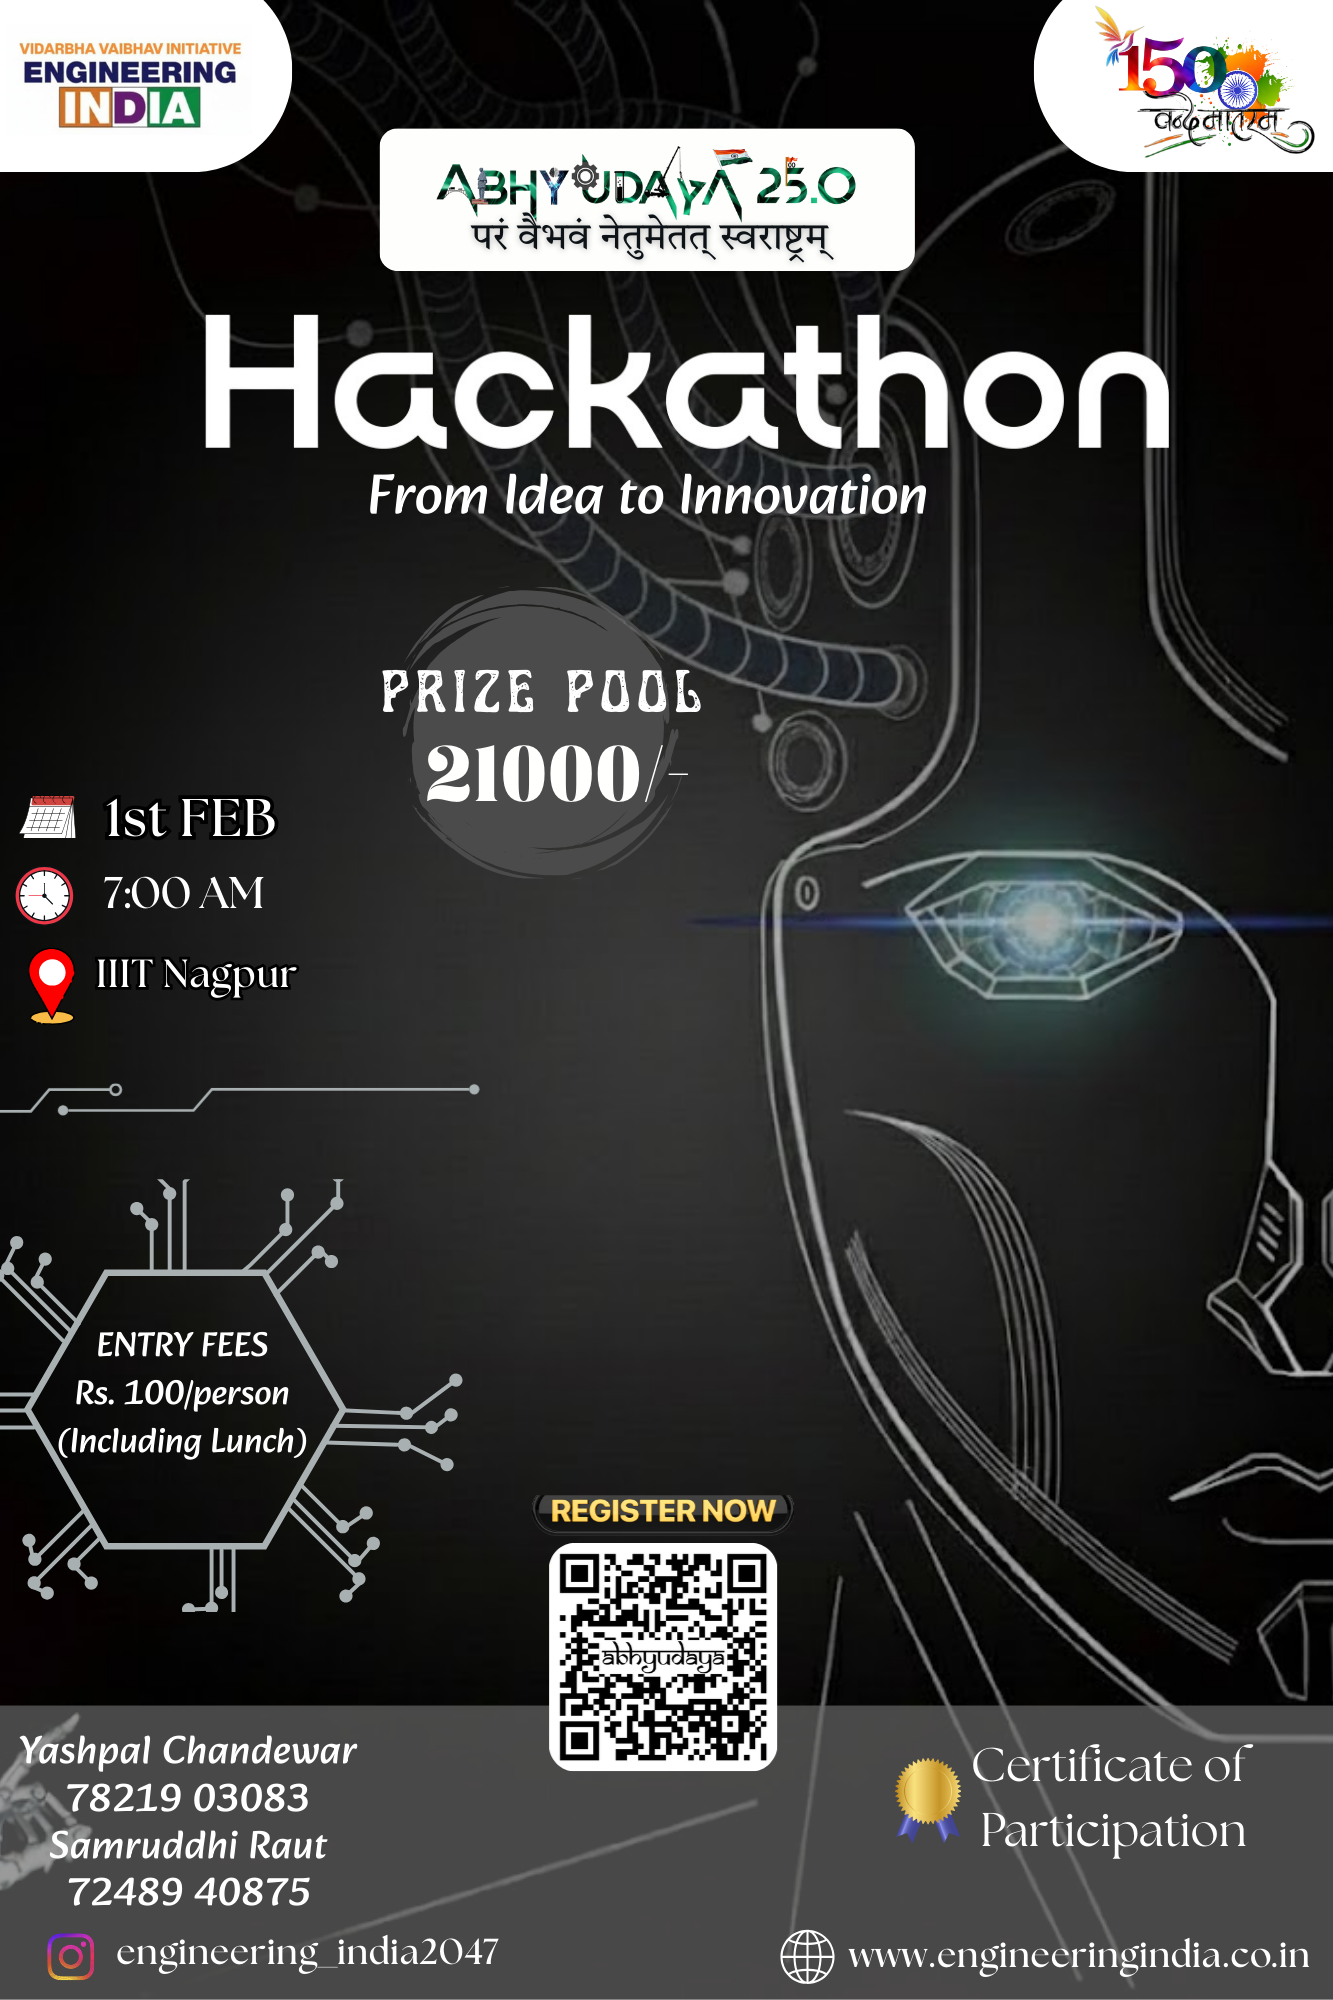
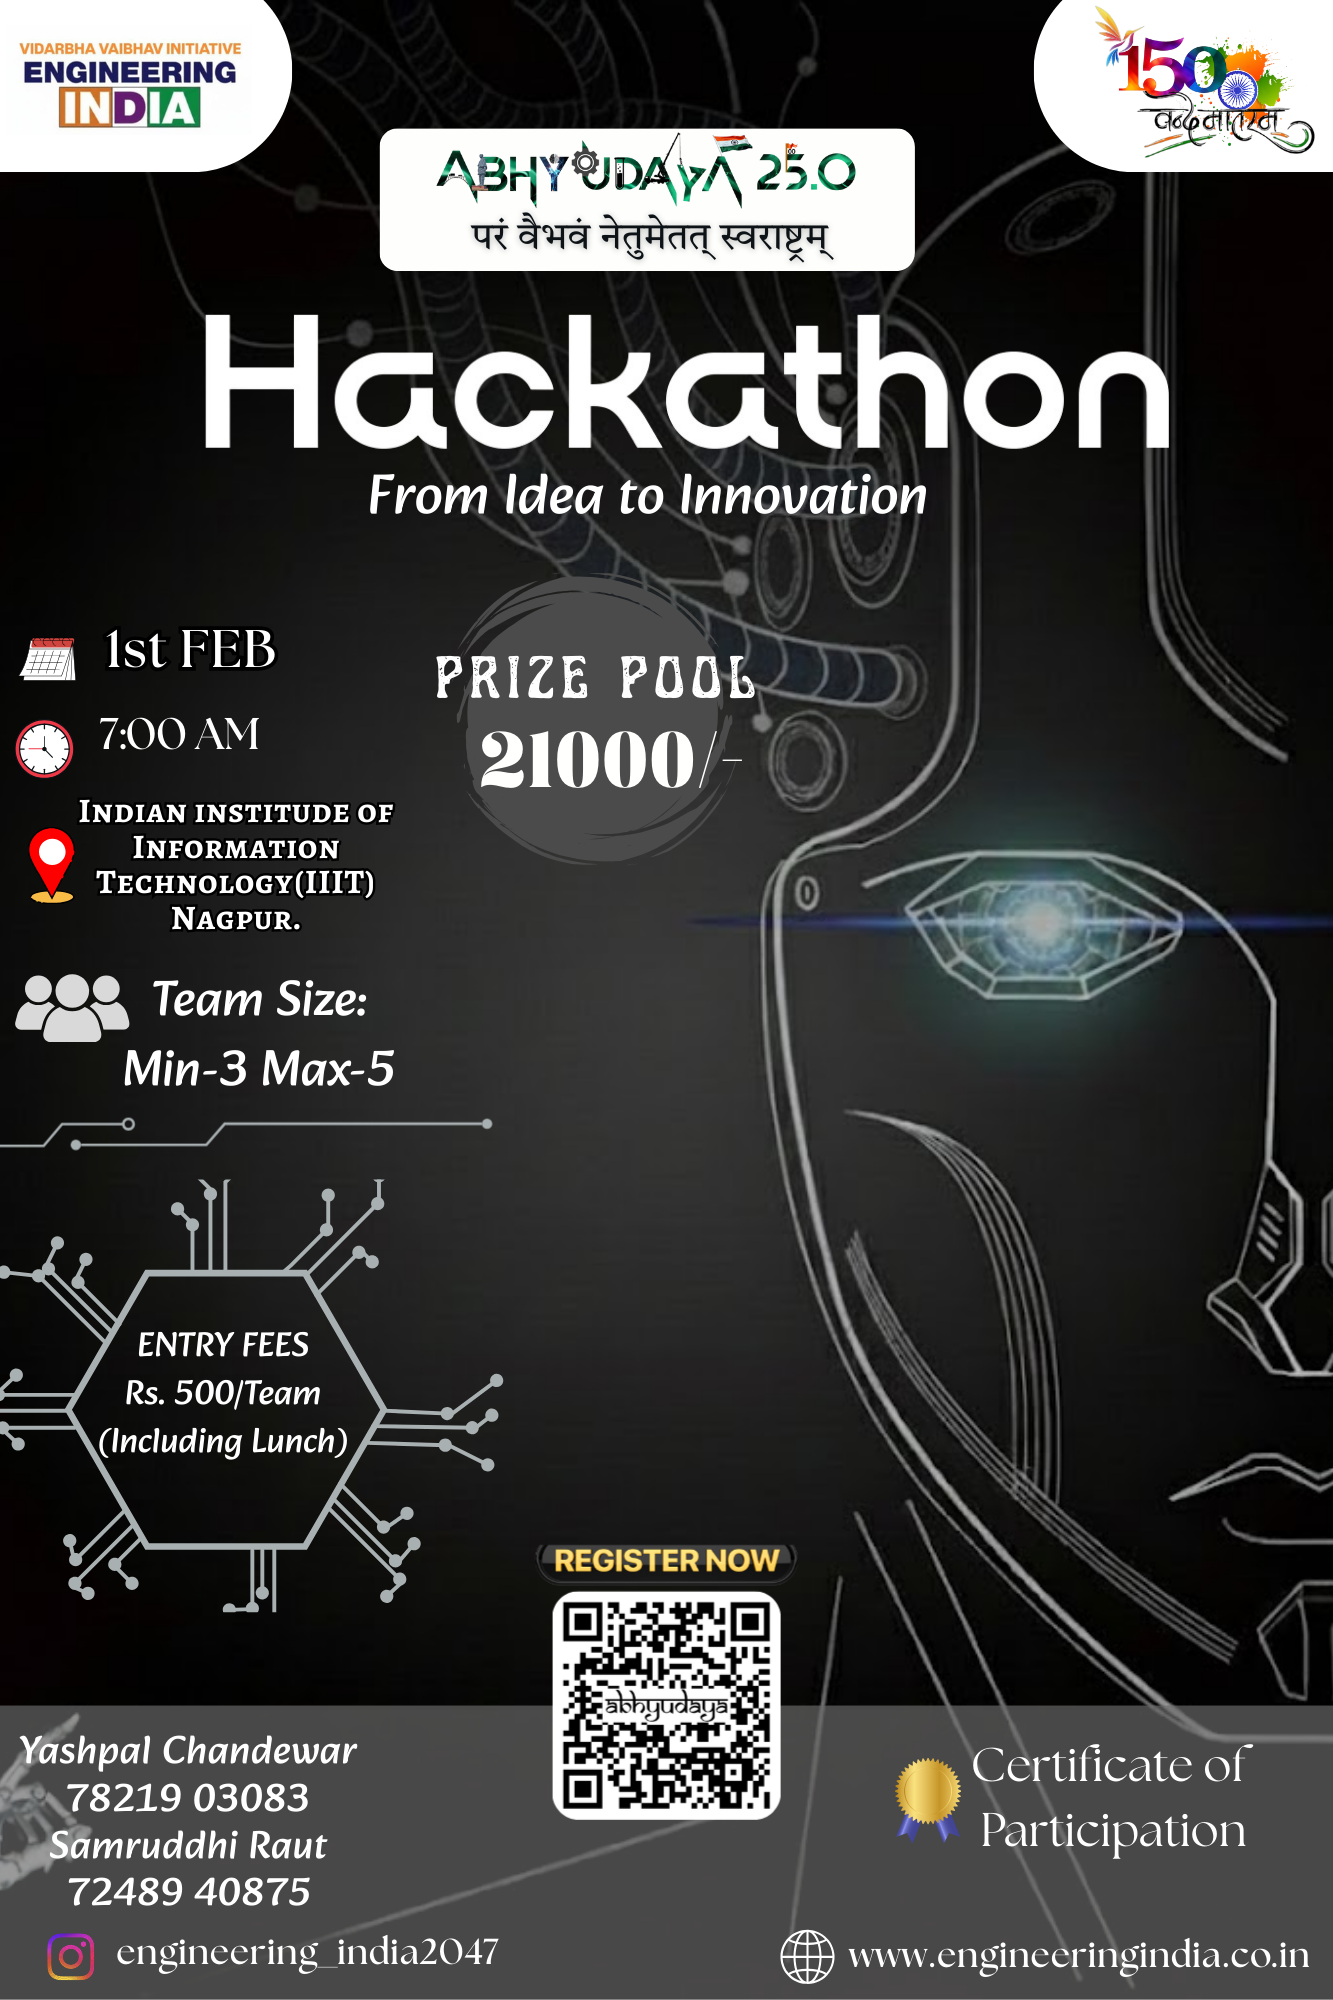
added updated poster of hackathon

Changed region(s): [[0.0, 0.279, 0.5536, 0.806], [0.3998, 0.744, 0.5844, 0.93], [0.3383, 0.062, 0.6459, 0.124]]

diff --git a/src/components/EventDetails.jsx b/src/components/EventDetails.jsx
@@ -121,7 +121,7 @@ const EVENT_DATA = {
     teamSize: "3-5",
     entryFee: "₹500/- per team",
 
-    about: "A national-level 24-hour innovation challenge where teams solve real-world problem statements, earn XP, and build prototypes to top the live leaderboard.",
+    about: "A national-level 10-hour innovation challenge where teams solve real-world problem statements and build prototypes to top the live leaderboard.",
     contact: [
       { name: "Coordinator 1: Yashpal Chandewar", phone: "+91-7821903083" },
       { name: "Coordinator 2: Samruddhi Raut", phone: "+91-7248940875" }

diff --git a/src/components/EventsPage.jsx b/src/components/EventsPage.jsx
@@ -37,7 +37,7 @@ export default function EventsPage({ onNavigate }) {
       id: 9,
       title: "Hackathon",
       description: "Build innovative solutions in a time-bound challenge",
-      detailText: "A 24-hour sprint to prototype and pitch your idea.",
+      detailText: "A 10-hour sprint to prototype and pitch your idea.",
       route: "event-hackathon",
       icon: "💻",
       category: "tech"
